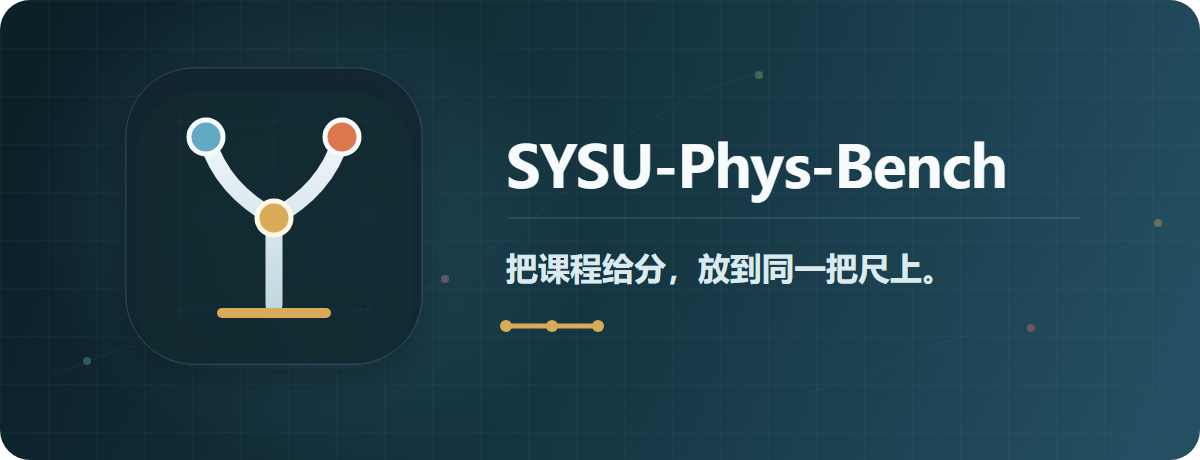
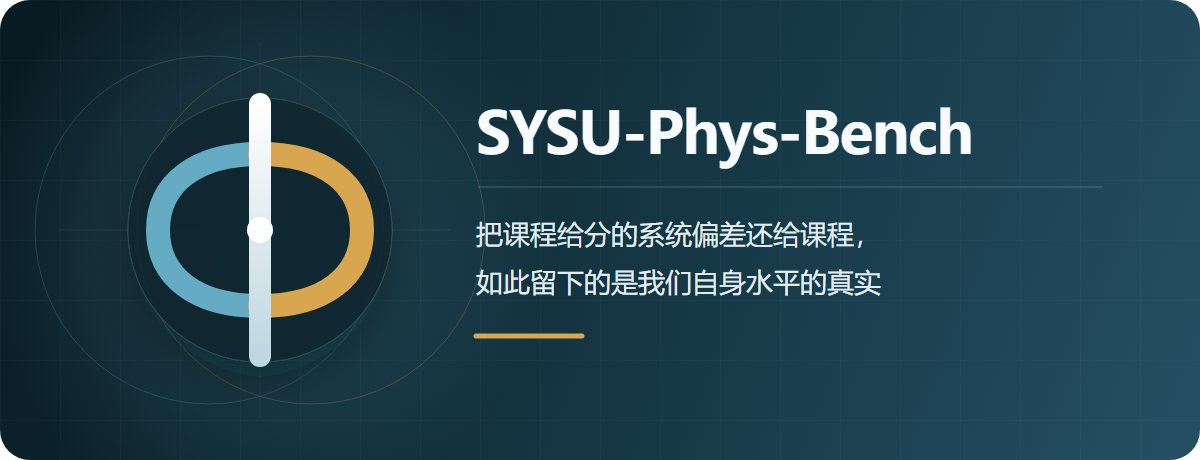
重设计项目标志并更新品牌文案

diff --git a/index.html b/index.html
@@ -7,19 +7,19 @@
     <meta name="theme-color" content="#f6f7f5" />
     <meta name="description" content="SYSU-Phys-Bench：中山大学物理学院本科课程给分基准测试。" />
     <meta property="og:title" content="SYSU-Phys-Bench" />
-    <meta property="og:description" content="把课程给分，放到同一把尺上。" />
+    <meta property="og:description" content="把课程给分的系统偏差还给课程，如此留下的是我们自身水平的真实" />
     <meta property="og:type" content="website" />
     <meta property="og:url" content="https://www.yykspace.com/show/sysu-phys-bench/" />
-    <meta property="og:image" content="https://www.yykspace.com/show/sysu-phys-bench/assets/brand/social-card.png" />
+    <meta property="og:image" content="https://www.yykspace.com/show/sysu-phys-bench/assets/brand/social-card.png?v=20260826-2" />
     <meta name="twitter:card" content="summary_large_image" />
     <title>SYSU-Phys-Bench</title>
-    <link rel="icon" href="assets/brand/logo-mark.svg" type="image/svg+xml" />
+    <link rel="icon" href="assets/brand/logo-mark.svg?v=20260826-2" type="image/svg+xml" />
     <link rel="stylesheet" href="styles.css?v=20260826-20" />
   </head>
   <body>
     <header class="site-header">
       <div class="shell header-inner">
-        <a class="site-title" href="#top"><img src="assets/brand/logo-mark.svg" alt="" /> <span>SYSU-Phys-Bench</span></a>
+        <a class="site-title" href="#top"><img src="assets/brand/logo-mark.svg?v=20260826-2" alt="" /> <span>SYSU-Phys-Bench</span></a>
         <nav class="main-navigation" aria-label="页面导航">
           <a href="#yu-index">Yu Index</a>
           <a href="#benchmark">课程总览</a>
@@ -35,10 +35,10 @@
     <main id="top" class="shell">
       <section class="section section-first intro-section" aria-labelledby="page-title">
         <div class="intro-brand">
-          <img class="intro-brand-mark" src="assets/brand/logo-mark.svg" alt="" />
+          <img class="intro-brand-mark" src="assets/brand/logo-mark.svg?v=20260826-2" alt="" />
           <div>
             <h1 id="page-title">SYSU-Phys-Bench: 中山大学物理学院本科课程给分基准测试</h1>
-            <p class="brand-slogan">把课程给分，放到同一把尺上。</p>
+            <p class="brand-slogan">把课程给分的系统偏差还给课程，如此留下的是我们自身水平的真实</p>
           </div>
         </div>
         <p class="benchmark-source">初始数据为余荫铠 2020—2024 年实测数据</p>
@@ -219,7 +219,7 @@
 
     <footer class="site-footer">
       <div class="shell footer-inner">
-        <span class="footer-brand"><img src="assets/brand/logo-mark.svg" alt="" /> SYSU-Phys-Bench</span>
+        <span class="footer-brand"><img src="assets/brand/logo-mark.svg?v=20260826-2" alt="" /> SYSU-Phys-Bench</span>
         <span>&copy; 余荫铠 2026</span>
         <span><a href="https://github.com/YinkaiYu/SYSU-Phys-Bench">GitHub</a> · <a href="https://www.yykspace.com/">yykspace.com</a></span>
       </div>

diff --git a/yu-index.html b/yu-index.html
@@ -10,16 +10,16 @@
     <meta property="og:description" content="基于绩点与教学班排名的课程给分水平指标。" />
     <meta property="og:type" content="article" />
     <meta property="og:url" content="https://www.yykspace.com/show/sysu-phys-bench/yu-index.html" />
-    <meta property="og:image" content="https://www.yykspace.com/show/sysu-phys-bench/assets/brand/social-card.png" />
+    <meta property="og:image" content="https://www.yykspace.com/show/sysu-phys-bench/assets/brand/social-card.png?v=20260826-2" />
     <meta name="twitter:card" content="summary_large_image" />
     <title>Yu Index 技术报告 · SYSU-Phys-Bench</title>
-    <link rel="icon" href="assets/brand/logo-mark.svg" type="image/svg+xml" />
+    <link rel="icon" href="assets/brand/logo-mark.svg?v=20260826-2" type="image/svg+xml" />
     <link rel="stylesheet" href="styles.css?v=20260826-20" />
   </head>
   <body>
     <header class="site-header">
       <div class="shell header-inner">
-        <a class="site-title" href="index.html"><img src="assets/brand/logo-mark.svg" alt="" /> <span>SYSU-Phys-Bench</span></a>
+        <a class="site-title" href="index.html"><img src="assets/brand/logo-mark.svg?v=20260826-2" alt="" /> <span>SYSU-Phys-Bench</span></a>
         <nav class="report-navigation" aria-label="页面导航">
           <a href="index.html#yu-index">返回基准测试</a>
           <a class="project-repo-link" href="https://github.com/YinkaiYu/SYSU-Phys-Bench">GitHub <span aria-hidden="true">↗</span></a>
@@ -173,7 +173,7 @@
 
     <footer class="site-footer">
       <div class="shell footer-inner">
-        <span class="footer-brand"><img src="assets/brand/logo-mark.svg" alt="" /> SYSU-Phys-Bench</span>
+        <span class="footer-brand"><img src="assets/brand/logo-mark.svg?v=20260826-2" alt="" /> SYSU-Phys-Bench</span>
         <span>&copy; 余荫铠 2026</span>
         <span><a href="https://github.com/YinkaiYu/SYSU-Phys-Bench">GitHub</a> · <a href="https://www.yykspace.com/">yykspace.com</a></span>
       </div>

diff --git a/README.md b/README.md
@@ -5,7 +5,7 @@
 
   <h3>中山大学物理学院本科课程给分基准测试</h3>
 
-  <p><strong>把课程给分，放到同一把尺上。</strong></p>
+  <p><strong>把课程给分的系统偏差还给课程，如此留下的是我们自身水平的真实</strong></p>
 
   <p>
     <img alt="Course records" src="https://img.shields.io/badge/dynamic/json?url=https%3A%2F%2Fraw.githubusercontent.com%2FYinkaiYu%2FSYSU-Phys-Bench%2Fmain%2Fassets%2Freadme%2Fdataset-stats.json&amp;query=%24.record_count&amp;label=%E8%AF%BE%E7%A8%8B%E8%AE%B0%E5%BD%95&amp;color=244e61&amp;style=flat-square" />
